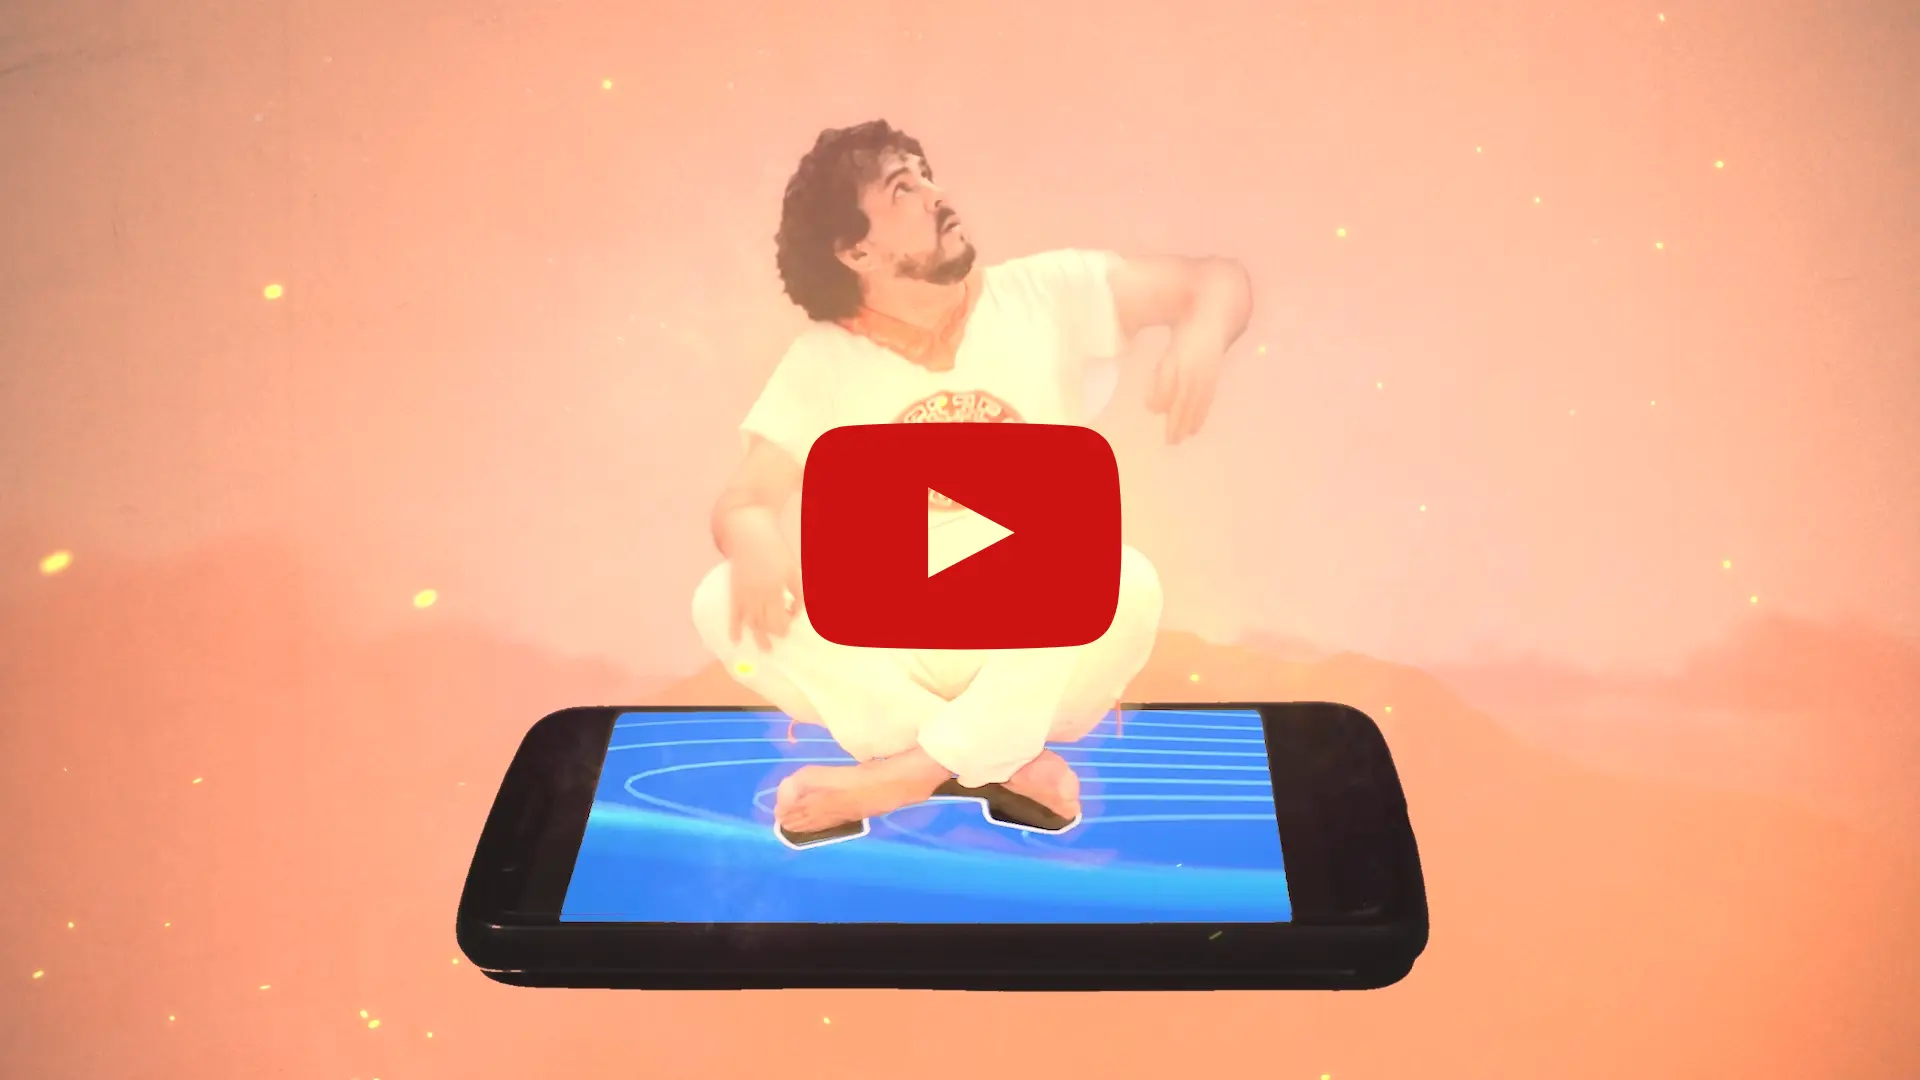
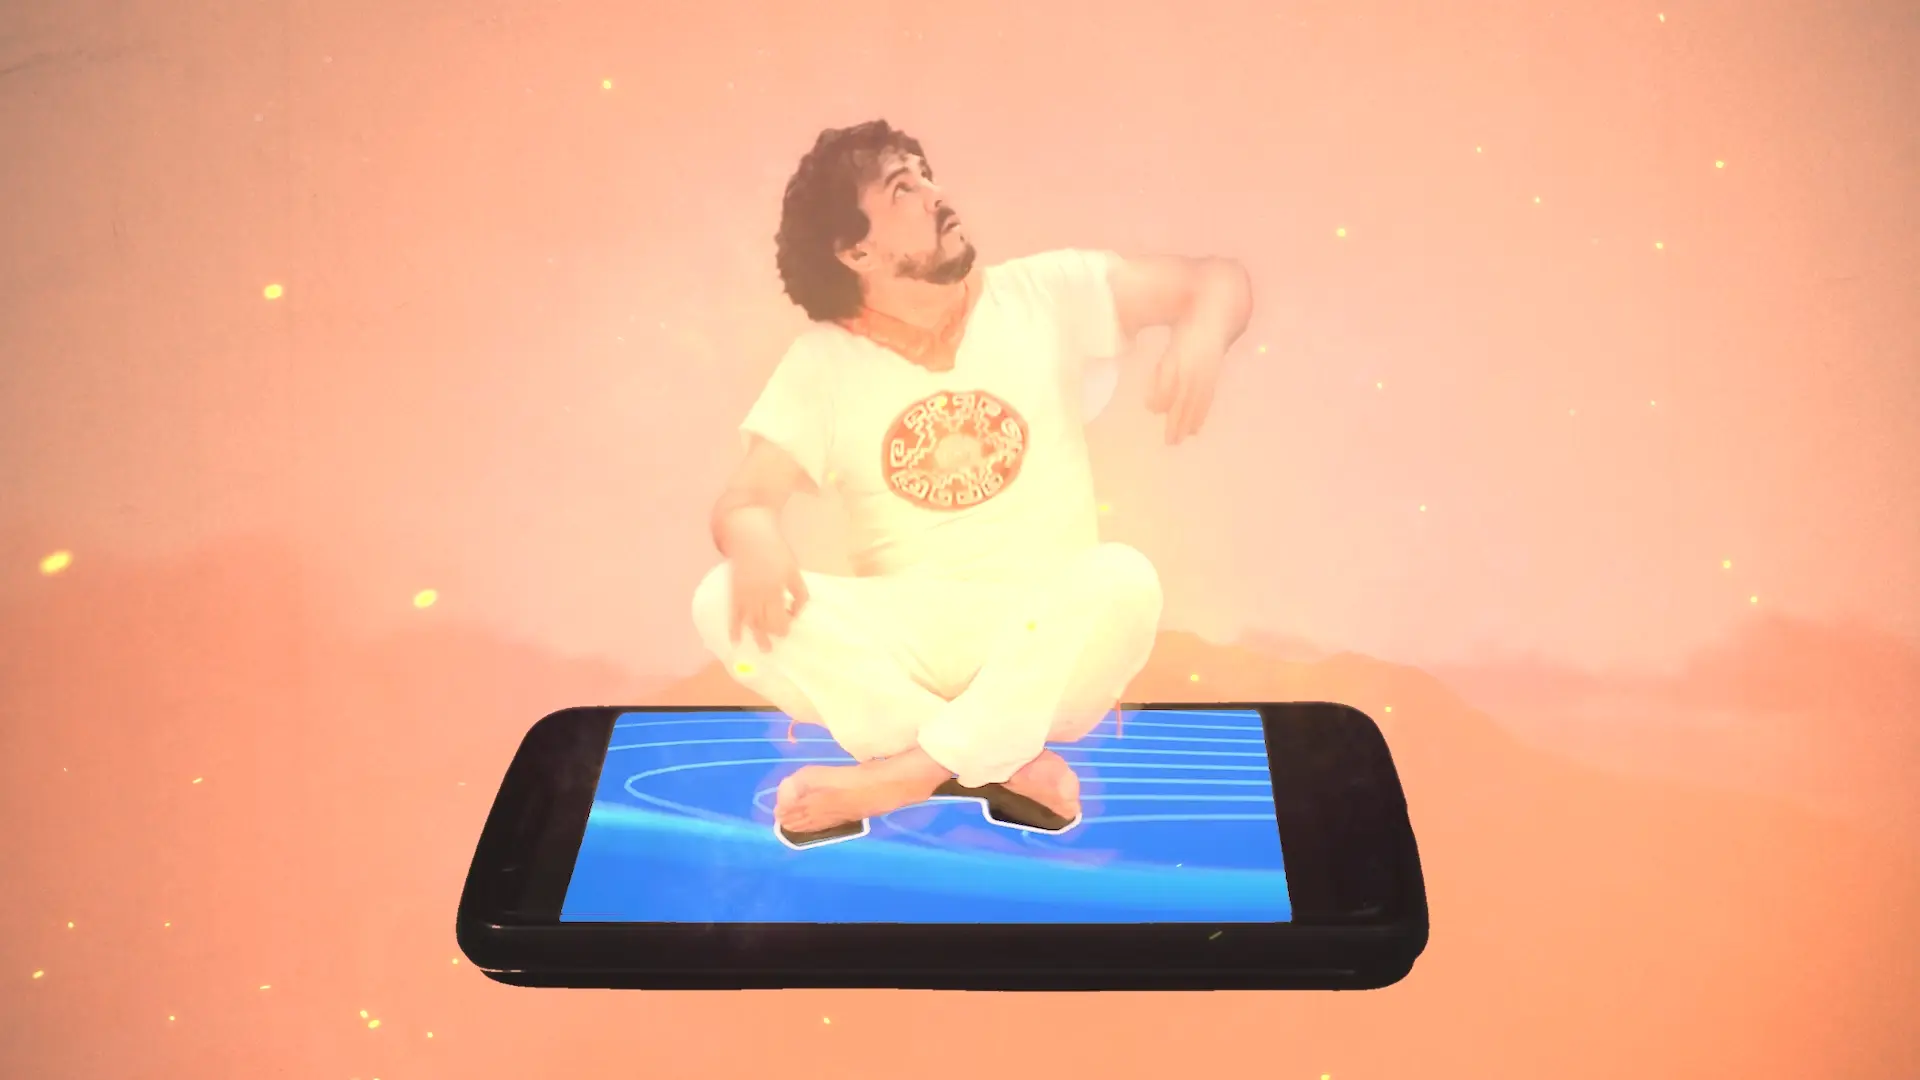
agrega svg de youtube sobre imagen de carrusel

Changed region(s): [[0.4062, 0.3667, 0.5938, 0.6111]]

diff --git a/components/Carrusel.jsx b/components/Carrusel.jsx
@@ -10,13 +10,11 @@ const videos = [
     titulo: "Casita",
     id: "hNx78lOYRvg",
     img: "/static/img/audiovisuales-casita.webp",
-    thumbnail: "/static/img/audiovisuales-casita-thumbnail.webp",
   },
   {
     titulo: "Limbo",
     id: "Xgx9pg9h9Fc",
     img: "/static/img/audiovisuales-limbo.webp",
-    thumbnail: "/static/img/audiovisuales-limbo-thumbnail.webp",
   },
 ]
 
@@ -29,7 +27,7 @@ const CustomDot = ({ onClick, ...rest }) => {
   } = rest
 
   const thumbnails = videos.map((video) => (
-    <Image src={video.thumbnail} height={50} width={90} />
+    <Image src={video.img} height={50} width={90} />
   ))
   return (
     <div
@@ -47,6 +45,7 @@ const CustomDot = ({ onClick, ...rest }) => {
 
 export default function Carrusel() {
   const [videoActivo, setVideoActivo] = useState(0)
+  const [videoClickeado, setVideoClickeado] = useState(false)
   return (
     <div className={styles.carrusel}>
       <Carousel
@@ -64,32 +63,54 @@ export default function Carrusel() {
         afterChange={(previousSlide, _ref) => {
           let currentSlide = _ref.currentSlide
           _ref.onMove
-          return setVideoActivo(currentSlide)
+          // return setVideoActivo(currentSlide)
+          if (currentSlide !== previousSlide) setVideoClickeado(false)
+          setVideoActivo(currentSlide)
         }}
       >
         {videos.map((video, i) => {
           return videoActivo == i ? (
-            <Embed
-              className={styles.embed}
-              icon=""
-              key={video.id}
-              hd={false}
-              id={video.id}
-              source="youtube"
-              autoplay={true}
-              placeholder={video.img}
-              iframe={{
-                allowFullScreen: true,
-                allow: "autoplay",
-              }}
-            />
+            <div onClick={() => setVideoClickeado(true)}>
+              <Embed
+                className={styles.embed}
+                icon=""
+                key={video.id}
+                hd={false}
+                id={video.id}
+                source="youtube"
+                autoplay={true}
+                placeholder={video.img}
+                iframe={{
+                  allowFullScreen: true,
+                  allow: "autoplay",
+                }}
+              />
+              {!videoClickeado && (
+                <div className={styles.botonYoutube}>
+                  <Image
+                    src="/static/svg/discografía/youtube.svg"
+                    width={100}
+                    height={100}
+                  />
+                </div>
+              )}
+            </div>
           ) : (
-            <Embed
-              icon=""
-              key={video.id}
-              active={false}
-              placeholder={video.img}
-            />
+            <div>
+              <Embed
+                icon=""
+                key={video.id}
+                active={false}
+                placeholder={video.img}
+              />
+              <div className={styles.botonYoutube}>
+                <Image
+                  src="/static/svg/discografía/youtube.svg"
+                  width={100}
+                  height={100}
+                />
+              </div>
+            </div>
           )
         })}
       </Carousel>

diff --git a/components/Discografía.jsx b/components/Discografía.jsx
@@ -55,7 +55,6 @@ export default function Discografía() {
                 <a href={obra.youtube} target="_blank" alt="Link a YouTube">
                   <Image
                     src="/static/svg/discografía/youtube.svg"
-                    target="_blank"
                     height="50"
                     width="50"
                   />

diff --git a/components/Carrusel.module.css b/components/Carrusel.module.css
@@ -25,3 +25,12 @@
 .thumbnailMascara:hover {
   opacity: 0.6;
 }
+
+.botonYoutube {
+  position: absolute;
+  /* z-index: 1; */
+  left: 50%;
+  margin-left: -50px;
+  top: 50%;
+  margin-top: -50px;
+}
